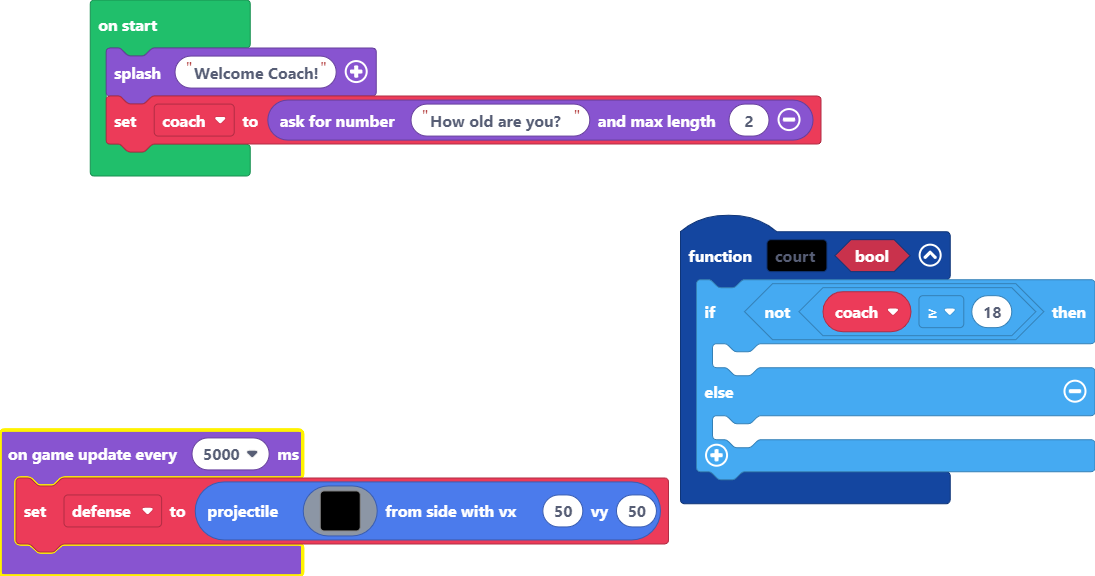
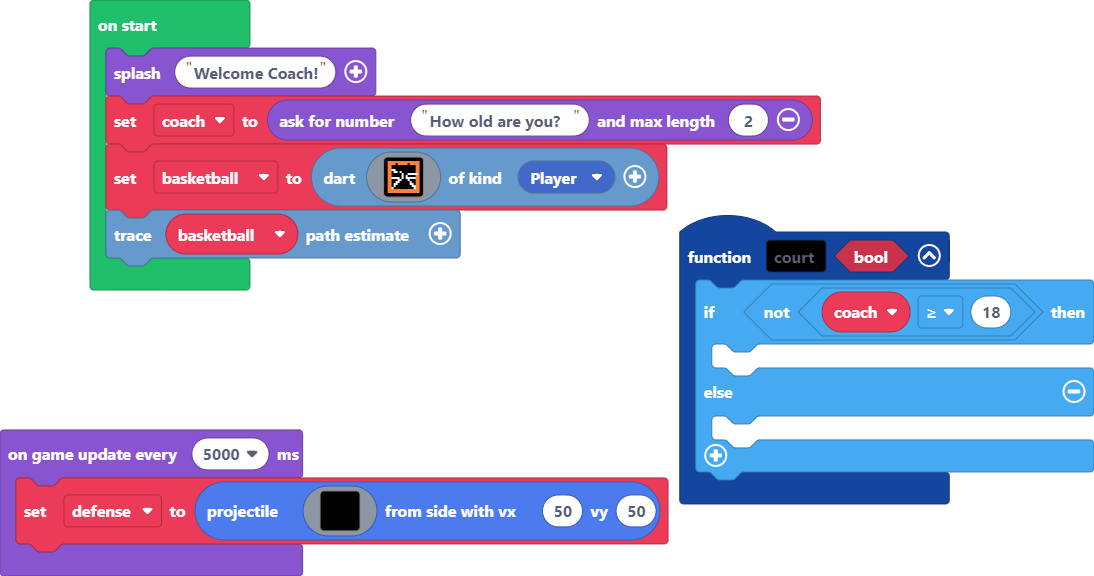
Update pxt.json, main.blocks, main.ts

diff --git a/main.ts b/main.ts
@@ -9,6 +9,25 @@ let defense: Sprite = null
 let coach = 0
 game.splash("Welcome Coach!")
 coach = game.askForNumber("How old are you?", 2)
+let basketball = darts.create(img`
+    4 4 4 4 4 4 4 4 4 4 4 4 4 4 4 4 
+    4 4 4 4 f 4 4 4 4 4 f 4 4 4 4 4 
+    4 4 . f f f . f . . f . f . 4 4 
+    4 4 . f . f . f . f f . f . 4 4 
+    4 4 1 1 . f . f . f . . f . 4 4 
+    4 4 . 1 1 f 1 f . f . . f . 4 4 
+    4 4 . f . f f 1 f f 1 1 1 1 1 4 
+    4 4 . f . . f 1 f 1 . . f . 4 4 
+    4 4 1 1 1 1 f 1 f 1 1 1 1 1 4 4 
+    4 4 . f . 1 1 f . . 1 . f . 4 4 
+    4 4 . f 1 1 . f f . . 1 f . 4 4 
+    4 4 . 1 1 . f f f f . 1 1 . 4 4 
+    4 4 . 1 . f f f . f f . 1 1 4 4 
+    4 4 1 f f f . f . . f f f 1 4 4 
+    4 4 4 4 4 4 4 4 4 4 4 4 4 4 4 4 
+    4 4 4 4 4 4 4 4 4 4 4 4 4 4 4 4 
+    `, SpriteKind.Player)
+basketball.setTrace()
 game.onUpdateInterval(5000, function () {
     defense = sprites.createProjectileFromSide(img`
         . . . . . . . . . . . . . . . . 
